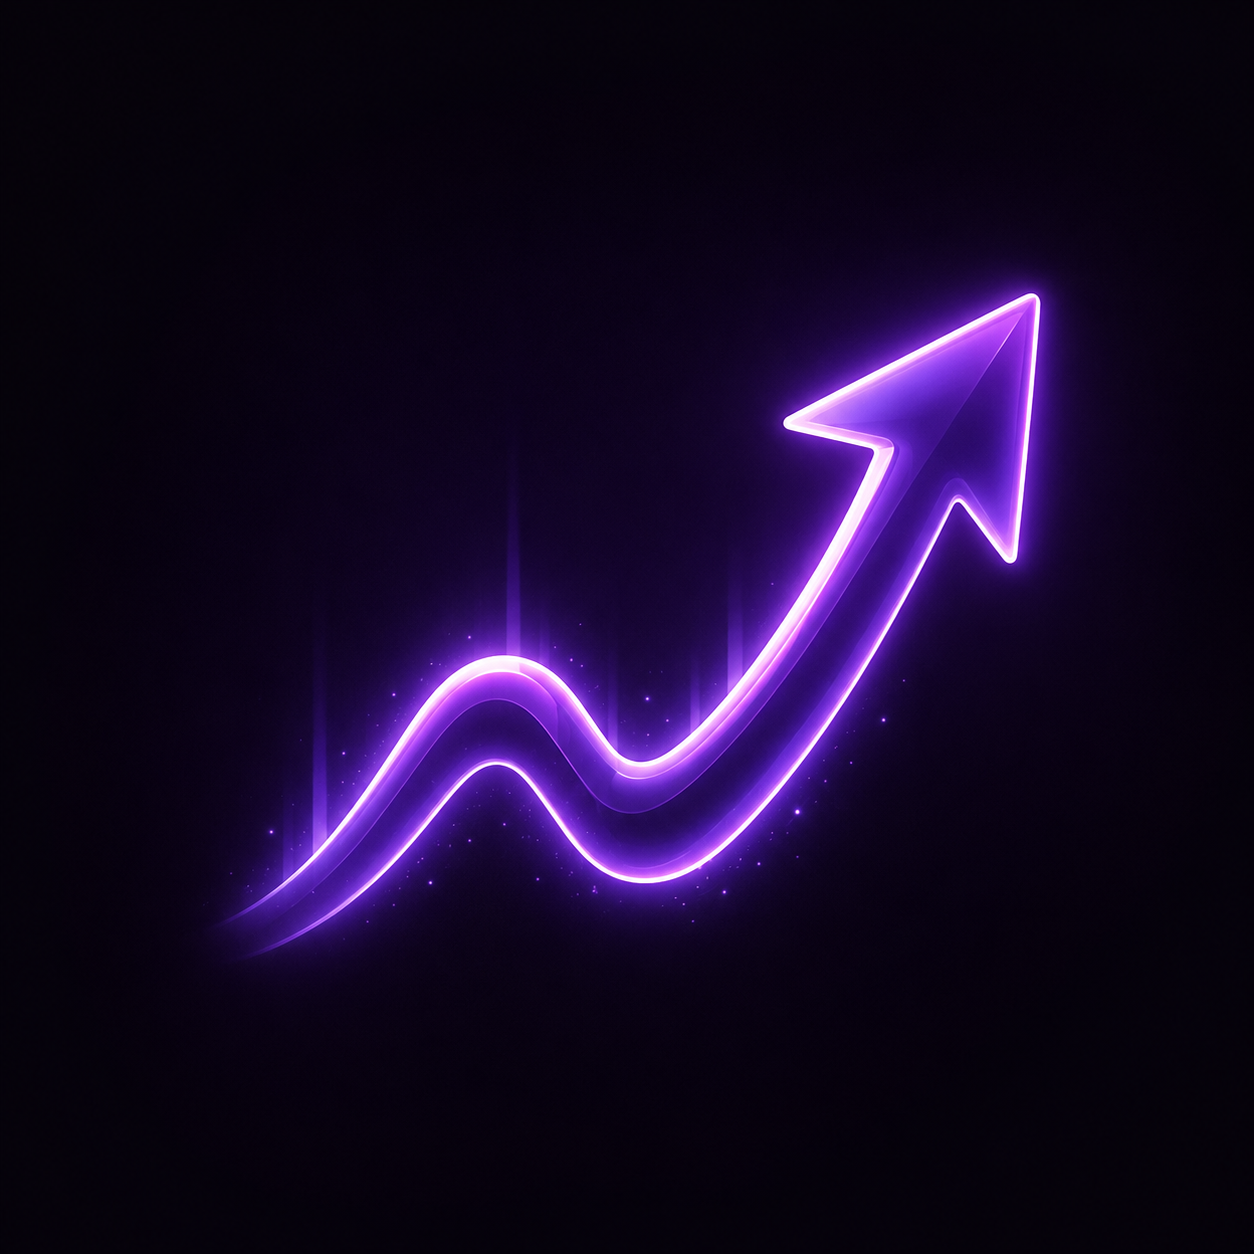
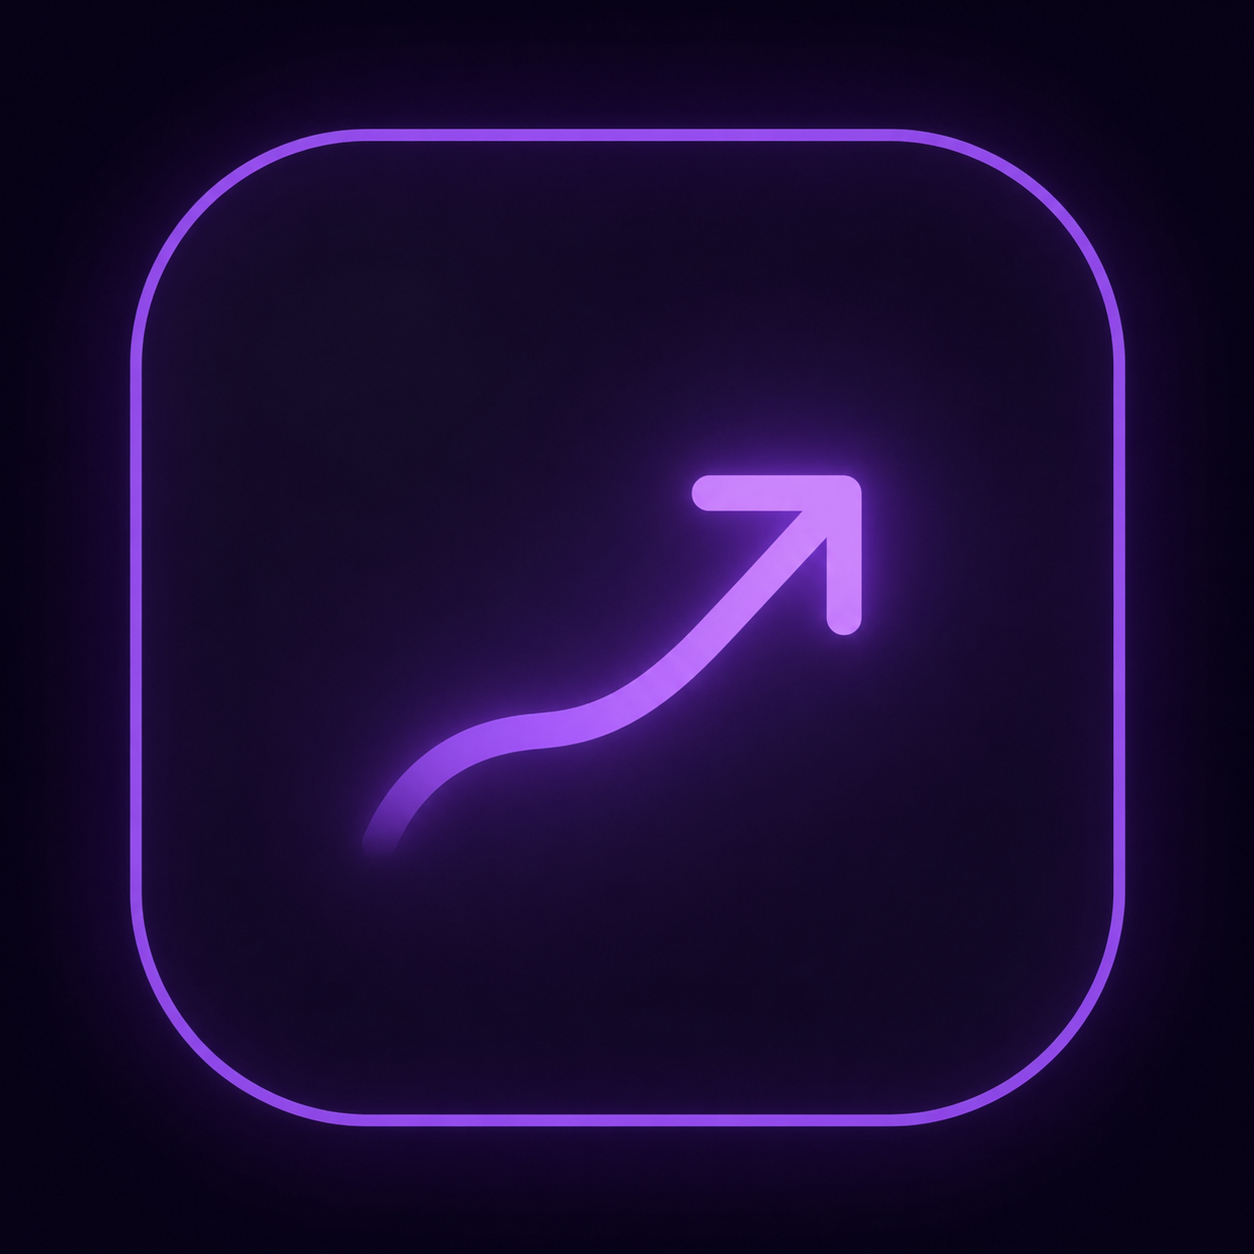
patch 1.2

diff --git a/styles.css b/styles.css
@@ -13,7 +13,7 @@
   --violet: #8e2bff;
   --violet-2: #c58bff;
   --cyan: #00e5ff;
-  --lime: #a6ff00;
+  --lime: #7df9ff;
   --pink: #f052ff;
   --shadow: 0 26px 90px rgba(0, 0, 0, 0.42);
   --glow: 0 0 34px rgba(142, 43, 255, 0.55), 0 0 90px rgba(142, 43, 255, 0.24);
@@ -1818,4 +1818,68 @@ html {
   .bot-bubble-left { left: 18px; }
   .bot-bubble-right { right: 18px; }
   .channel-panel { right: 18px; bottom: 20px; width: 82px; }
+}
+/* Asset images: services, benefits and examples */
+.service-icon,
+.why-icon {
+  position: relative;
+  z-index: 1;
+  width: 72px;
+  height: 72px;
+  display: grid;
+  place-items: center;
+  overflow: hidden;
+  flex-shrink: 0;
+  margin-bottom: 24px;
+  border-radius: 24px;
+  border: 1px solid rgba(196, 139, 255, 0.28);
+  background: radial-gradient(circle at 50% 50%, rgba(168, 85, 247, 0.18), rgba(15, 10, 28, 0.78));
+  box-shadow:
+    inset 0 0 22px rgba(168, 85, 247, 0.10),
+    0 0 26px rgba(168, 85, 247, 0.12);
+}
+
+.service-icon::before,
+.service-icon::after {
+  content: none !important;
+  display: none !important;
+}
+
+.service-icon img,
+.why-icon img {
+  width: 100%;
+  height: 100%;
+  display: block;
+  object-fit: cover;
+}
+
+.example-preview {
+  position: relative;
+  z-index: 1;
+  width: 100%;
+  aspect-ratio: 16 / 9;
+  margin-bottom: 24px;
+  overflow: hidden;
+  border-radius: 22px;
+  border: 1px solid rgba(196, 139, 255, 0.24);
+  background: rgba(18, 12, 34, 0.78);
+  box-shadow:
+    inset 0 0 26px rgba(168, 85, 247, 0.10),
+    0 0 32px rgba(168, 85, 247, 0.10);
+}
+
+.example-preview img {
+  width: 100%;
+  height: 100%;
+  display: block;
+  object-fit: cover;
+}
+
+@media (max-width: 560px) {
+  .service-icon,
+  .why-icon {
+    width: 68px;
+    height: 68px;
+    border-radius: 22px;
+  }
 }

diff --git a/index.html b/index.html
@@ -139,7 +139,9 @@
         <div class="services-grid">
           <article class="service-card reveal">
             <div class="card-num">01</div>
-            <div class="service-icon telegram-icon" aria-hidden="true"></div>
+            <div class="service-icon">
+              <img src="assets/service-bot-icon.png" alt="Иконка Telegram-бота">
+            </div>
             <h3>Telegram-боты</h3>
             <p>Боты для заявок, записи, консультаций, уведомлений, розыгрышей, оплат и автоматизации рутины.</p>
             <ul>
@@ -151,7 +153,9 @@
 
           <article class="service-card reveal">
             <div class="card-num">02</div>
-            <div class="service-icon website-icon" aria-hidden="true"></div>
+            <div class="service-icon">
+              <img src="assets/service-site-icon.png" alt="Иконка сайта и лендинга">
+            </div>
             <h3>Сайты и лендинги</h3>
             <p>Современные сайты под услуги, личный бренд, запуск продукта, портфолио или быстрый тест идеи.</p>
             <ul>
@@ -163,7 +167,9 @@
 
           <article class="service-card reveal">
             <div class="card-num">03</div>
-            <div class="service-icon growth-icon" aria-hidden="true"></div>
+            <div class="service-icon">
+              <img src="assets/service-growth-icon.png" alt="Иконка продвижения в Telegram">
+            </div>
             <h3>Продвижение в Telegram</h3>
             <p>Упаковка канала, контентная логика, рекламные креативы и базовый план роста аудитории.</p>
             <ul>
@@ -175,7 +181,9 @@
 
           <article class="service-card reveal">
             <div class="card-num">04</div>
-            <div class="service-icon banner-icon" aria-hidden="true"></div>
+            <div class="service-icon">
+              <img src="assets/service-banner-icon.png" alt="Иконка баннеров">
+            </div>
             <h3>Баннеры</h3>
             <p>Визуалы для Telegram, сайтов, объявлений, презентаций и рекламных постов в едином стиле.</p>
             <ul>
@@ -201,22 +209,30 @@
 
         <div class="benefit-grid">
           <div class="benefit-card reveal">
-            <span class="benefit-icon design-benefit" aria-hidden="true"></span>
+            <div class="why-icon">
+              <img src="assets/why-design-icon.png" alt="Иконка современного дизайна">
+            </div>
             <h3>Современный дизайн</h3>
             <p>Тёмный premium-tech стиль, аккуратная типографика, контраст и визуальная глубина.</p>
           </div>
           <div class="benefit-card reveal">
-            <span class="benefit-icon automation-benefit" aria-hidden="true"></span>
+            <div class="why-icon">
+              <img src="assets/why-automation-icon.png" alt="Иконка автоматизации">
+            </div>
             <h3>Автоматизация</h3>
             <p>Боты и интеграции экономят время, принимают заявки и разгружают повторяющиеся действия.</p>
           </div>
           <div class="benefit-card reveal">
-            <span class="benefit-icon result-benefit" aria-hidden="true"></span>
+            <div class="why-icon">
+              <img src="assets/why-result-icon.png" alt="Иконка фокуса на результате">
+            </div>
             <h3>Фокус на результате</h3>
             <p>Каждый блок ведёт к действию: написать, оставить заявку, выбрать услугу, перейти в Telegram.</p>
           </div>
           <div class="benefit-card reveal">
-            <span class="benefit-icon style-benefit" aria-hidden="true"></span>
+            <div class="why-icon">
+              <img src="assets/why-style-icon.png" alt="Иконка единого стиля">
+            </div>
             <h3>Единый стиль</h3>
             <p>Сайт, бот, баннеры и Telegram-упаковка выглядят как одна система, а не набор случайных элементов.</p>
           </div>
@@ -267,43 +283,24 @@
 
         <div class="examples-grid">
           <article class="example-card reveal">
-            <div class="example-visual bot-visual" aria-hidden="true">
-              <span class="bot-bubble bot-bubble-left"></span>
-              <span class="bot-bubble bot-bubble-right"></span>
-              <div class="bot-figure">
-                <span class="bot-antenna"></span>
-                <span class="bot-eye bot-eye-left"></span>
-                <span class="bot-eye bot-eye-right"></span>
-                <span class="bot-mouth"></span>
-              </div>
+            <div class="example-preview">
+              <img src="assets/example-bot-preview.png" alt="Пример Telegram-бота для заявок">
             </div>
             <span>Telegram-бот</span>
             <h3>Бот для заявок и консультаций</h3>
             <p>Клиент выбирает услугу, отвечает на вопросы, а заявка приходит вам в Telegram.</p>
           </article>
           <article class="example-card reveal">
-            <div class="example-visual site-visual" aria-hidden="true">
-              <div class="site-window">
-                <div class="site-window-top"><span></span><span></span><span></span></div>
-                <div class="site-window-body">
-                  <span class="site-line site-line-wide"></span>
-                  <span class="site-line site-line-mid"></span>
-                  <div class="site-blocks"><i></i><i></i><i></i></div>
-                </div>
-              </div>
+            <div class="example-preview">
+              <img src="assets/example-landing-preview.png" alt="Пример лендинга под услугу">
             </div>
             <span>Сайт</span>
             <h3>Лендинг под услугу</h3>
             <p>Короткая продающая страница с оффером, преимуществами, ценами и кнопкой связи.</p>
           </article>
           <article class="example-card reveal">
-            <div class="example-visual promo-visual" aria-hidden="true">
-              <div class="channel-icon">
-                <span class="channel-plane"></span>
-              </div>
-              <div class="channel-panel">
-                <span></span><span></span><span></span>
-              </div>
+            <div class="example-preview">
+              <img src="assets/example-channel-preview.png" alt="Пример упаковки Telegram-канала">
             </div>
             <span>Продвижение</span>
             <h3>Упаковка Telegram-канала</h3>